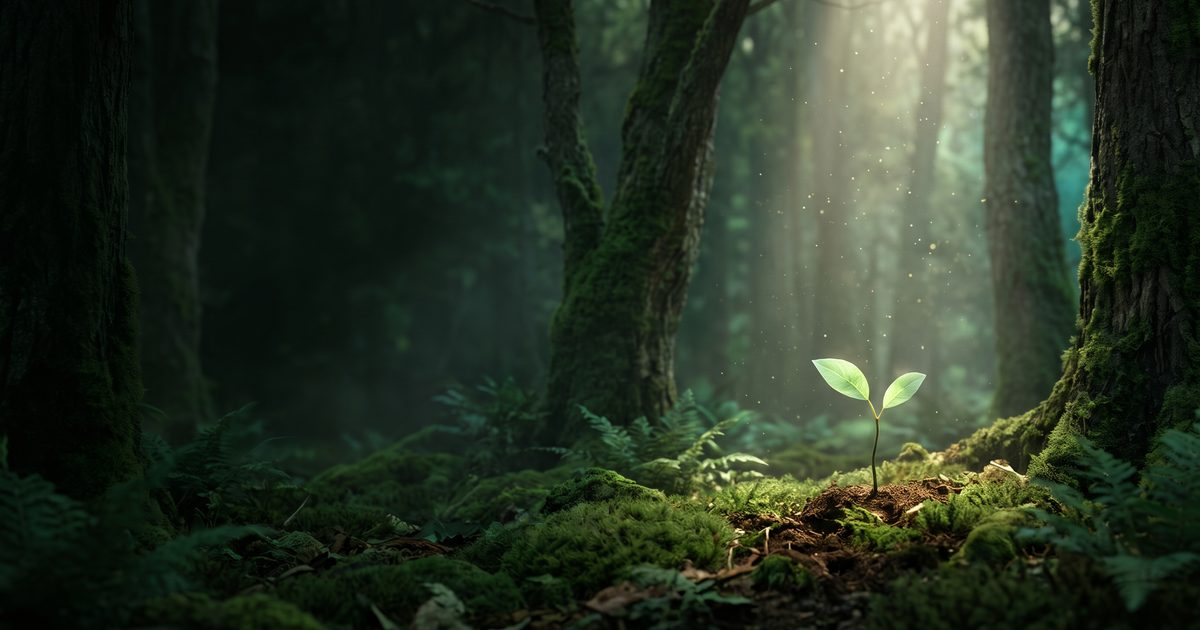
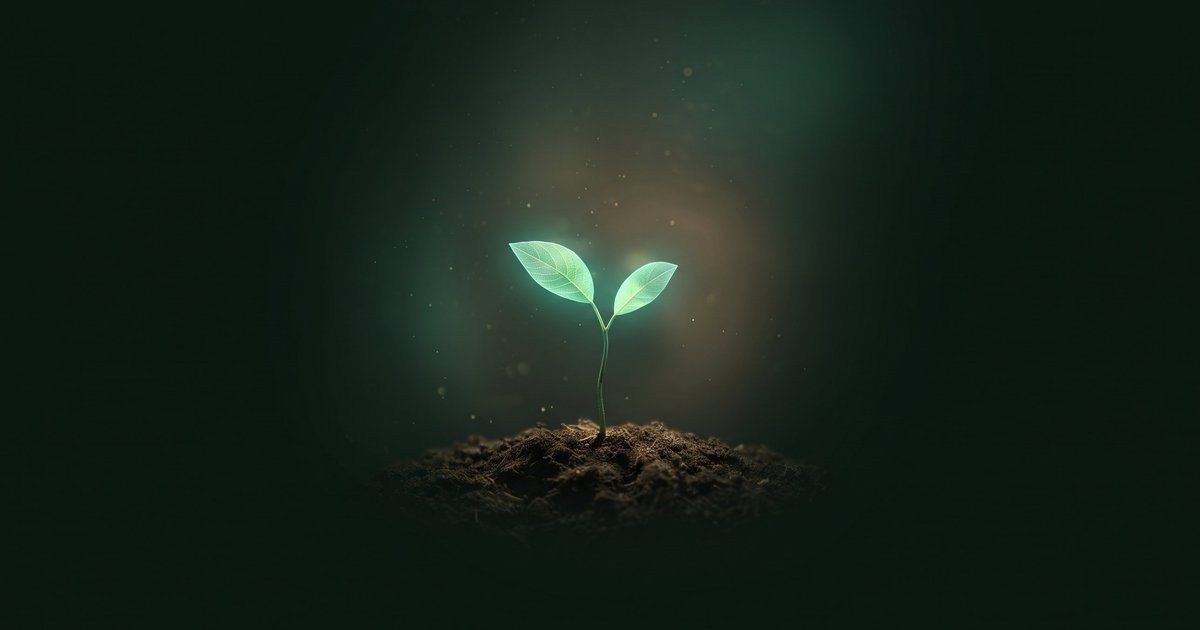
Bilder: eigenes Link-Vorschaubild (Sprössling) statt Hero-Ausschnitt
Claude-Session: https://claude.ai/code/session_01Y3MmyTaPVrhvWbdQuT24Y8

diff --git a/docs/images.md b/docs/images.md
@@ -20,7 +20,7 @@ Prefer WebP (quality ~80). Sizes are the recommended export width; height follow
 | `tools-whiteboard.webp` | Coaching Tools | 4:3 | 1400 | `coaching_2.png` or new |
 | `hero-objects.webp` | Spatial Objects hero | ~16:9 | 2400 | new |
 | `objects.webp` | Spatial Objects | 4:3 | 1400 | `objects.png` |
-| `og-image.jpg` | Social share preview | 1200×630 | 1200 | interim crop of the home hero; dedicated image still open |
+| `og-image.jpg` | Social share preview | 1200×630 | 1200 | dedicated sprout image (04.11.2026) |
 
 Heroes sit under a dark gradient on the left, so keep the main subject on the right half.
 
